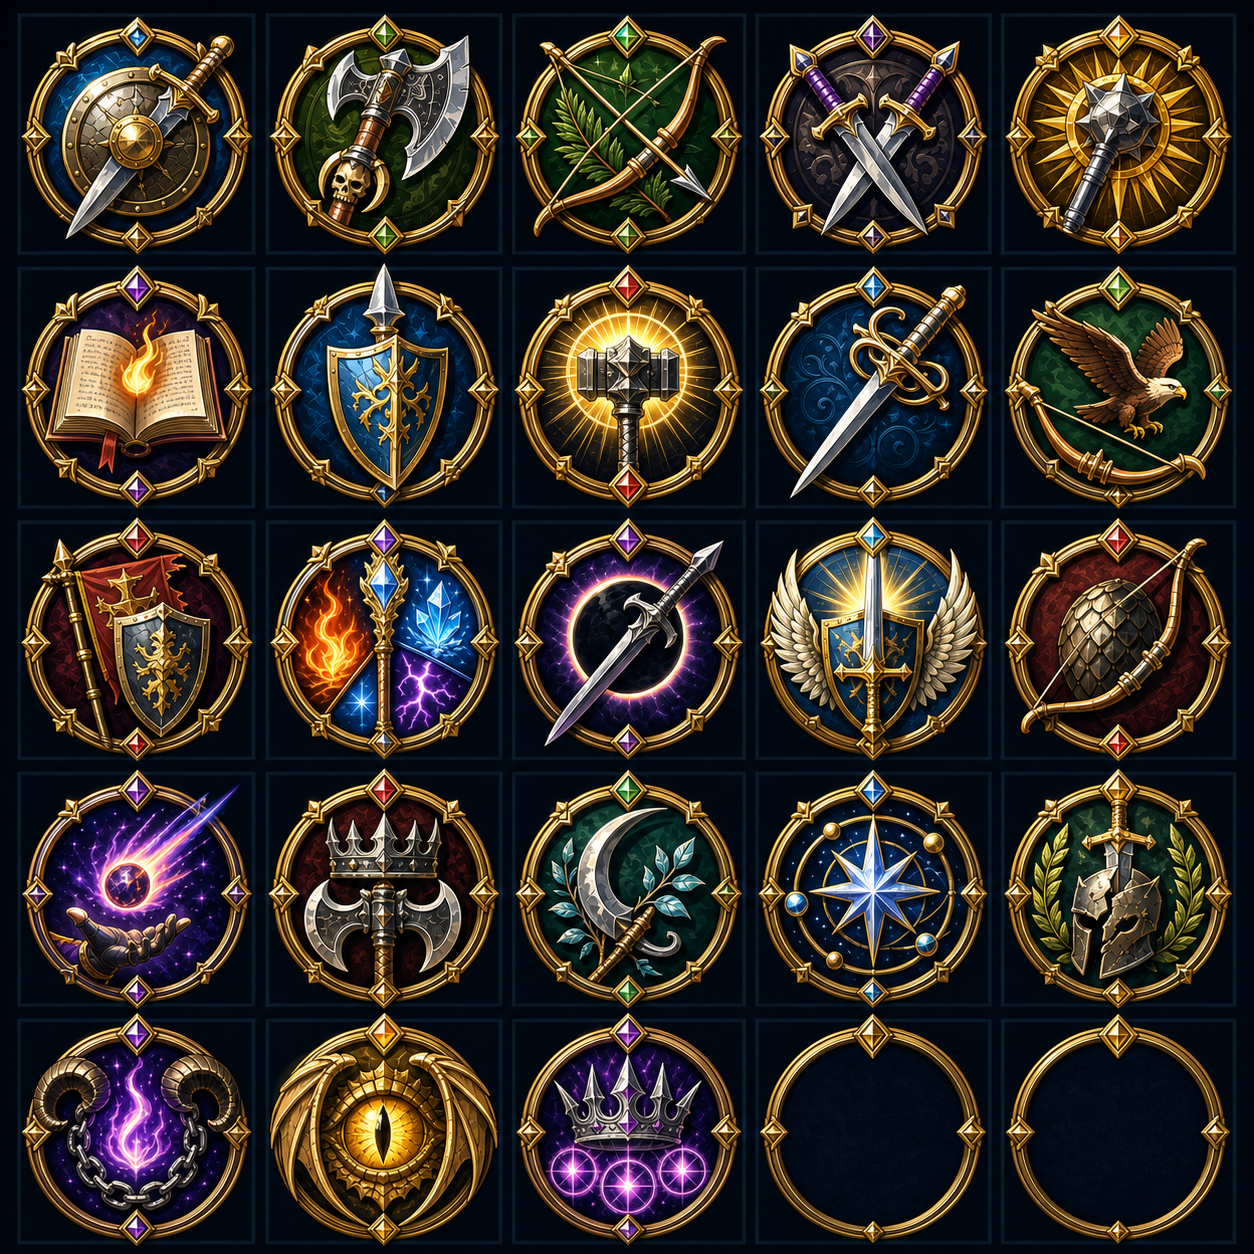
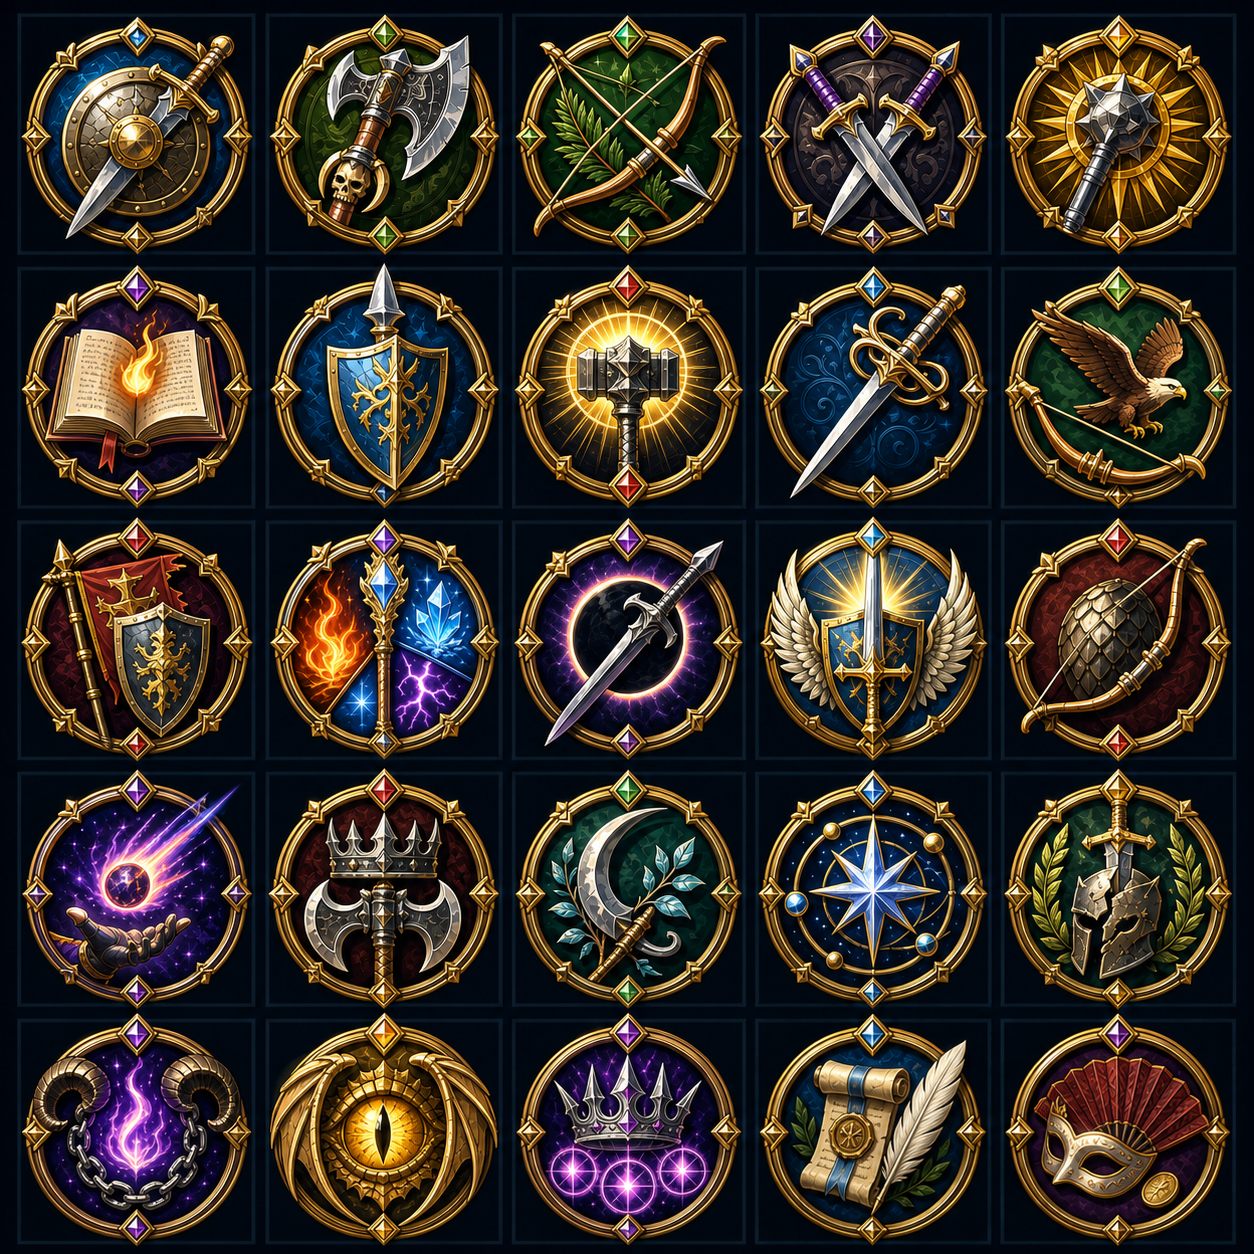
feat: map social profession medallions

Changed region(s): [[0.8086, 0.8086, 0.9952, 0.9952], [0.5909, 0.8086, 0.7775, 0.9952]]

diff --git a/src/components/ProfessionIcon.jsx b/src/components/ProfessionIcon.jsx
@@ -3,15 +3,15 @@ import professionAtlas from "../assets/generated/professions/profession-atlas-an
 import { professionRecord } from "../data/professions.js";
 import "./profession-icon.css";
 
-// ImageGen-authored 5x5 atlas. The first 23 cells are occupied in template
-// order; the last two are deliberately blank. Keeping the index semantic here
+// ImageGen-authored 5x5 atlas. The first 23 cells are character-specific and
+// the final two are shared by the envoy and courtier social professions. Keeping the index semantic here
 // makes the visual source replaceable without scattering pixel coordinates.
 export const PROFESSION_ATLAS_CELLS = Object.freeze([
   "sellsword", "reaver", "ranger", "cutthroat", "devout",
   "hedge-mage", "knight-errant", "war-priest", "duelist", "beast-warden",
   "war-captain", "battle-archmage", "shadowblade", "champion-paladin", "dragon-hunter",
   "high-sorcerer", "warlord", "fae-touched", "archmage-ascendant", "undying-champion",
-  "demon-warlock", "dragon-ascendant", "enchanter-tyrant",
+  "demon-warlock", "dragon-ascendant", "enchanter-tyrant", "envoy", "courtier",
 ]);
 
 const CELL_INDEX = Object.freeze(Object.fromEntries(PROFESSION_ATLAS_CELLS.map((key, index) => [key, index])));
@@ -21,6 +21,7 @@ const PROFESSION_FALLBACKS = Object.freeze({
   "war-captain": "war-captain", archmage: "battle-archmage", paladin: "champion-paladin", "dragon-hunter": "dragon-hunter",
   sorcerer: "high-sorcerer", warlord: "warlord", "fae-touched": "fae-touched", champion: "undying-champion",
   warlock: "demon-warlock", "dragon-ascendant": "dragon-ascendant", "enchanter-tyrant": "enchanter-tyrant",
+  envoy: "envoy", courtier: "courtier",
 });
 
 export function professionIconKey({ templateId, profession } = {}) {

diff --git a/src/components/ProfessionIcon.test.jsx b/src/components/ProfessionIcon.test.jsx
@@ -4,17 +4,21 @@ import { describe, expect, it } from "vitest";
 import { PROFESSION_ATLAS_CELLS, ProfessionIcon, professionAtlasPosition, professionIconKey } from "./ProfessionIcon.jsx";
 
 describe("ProfessionIcon", () => {
-  it("indexes all 23 authored class medallions into the 5x5 atlas", () => {
-    expect(PROFESSION_ATLAS_CELLS).toHaveLength(23);
-    expect(new Set(PROFESSION_ATLAS_CELLS).size).toBe(23);
+  it("indexes all 25 authored profession medallions into the 5x5 atlas", () => {
+    expect(PROFESSION_ATLAS_CELLS).toHaveLength(25);
+    expect(new Set(PROFESSION_ATLAS_CELLS).size).toBe(25);
     expect(professionAtlasPosition("sellsword")).toBe("0% 0%");
     expect(professionAtlasPosition("devout")).toBe("100% 0%");
     expect(professionAtlasPosition("enchanter-tyrant")).toBe("50% 100%");
+    expect(professionAtlasPosition("envoy")).toBe("75% 100%");
+    expect(professionAtlasPosition("courtier")).toBe("100% 100%");
   });
 
   it("prefers a character-specific cell and falls back by profession", () => {
     expect(professionIconKey({ templateId: "shadowblade", profession: "assassin" })).toBe("shadowblade");
     expect(professionIconKey({ profession: "assassin" })).toBe("cutthroat");
+    expect(professionIconKey({ templateId: "court-envoy", profession: "envoy" })).toBe("envoy");
+    expect(professionIconKey({ templateId: "velvet-courtier", profession: "courtier" })).toBe("courtier");
     const html = renderToStaticMarkup(<ProfessionIcon templateId="shadowblade" profession="assassin" />);
     expect(html).toContain("data-atlas-cell=\"shadowblade\"");
     expect(html).toContain("profession-atlas-anime-v2.webp");

diff --git a/src/components/MenuFlow.test.jsx b/src/components/MenuFlow.test.jsx
@@ -62,6 +62,10 @@ describe("front-of-game menu flow", () => {
     expect(html).toContain("Bram Coltaine");
     expect(html).toContain("Faelar Sylvareth");
     expect(html).toContain("Ysolde Varen");
+    expect(html).toContain("Nadira Sahir");
+    expect(html).toContain("Lethira Vael");
+    expect(html).toContain("Tomas Vell");
+    expect(html).toContain("Amahara Sayo");
     expect(html).toContain("Korvane Ashfell");
     expect(html).toContain("Search name, class, subclass, kindred…");
     expect(html).toContain("All roles");
